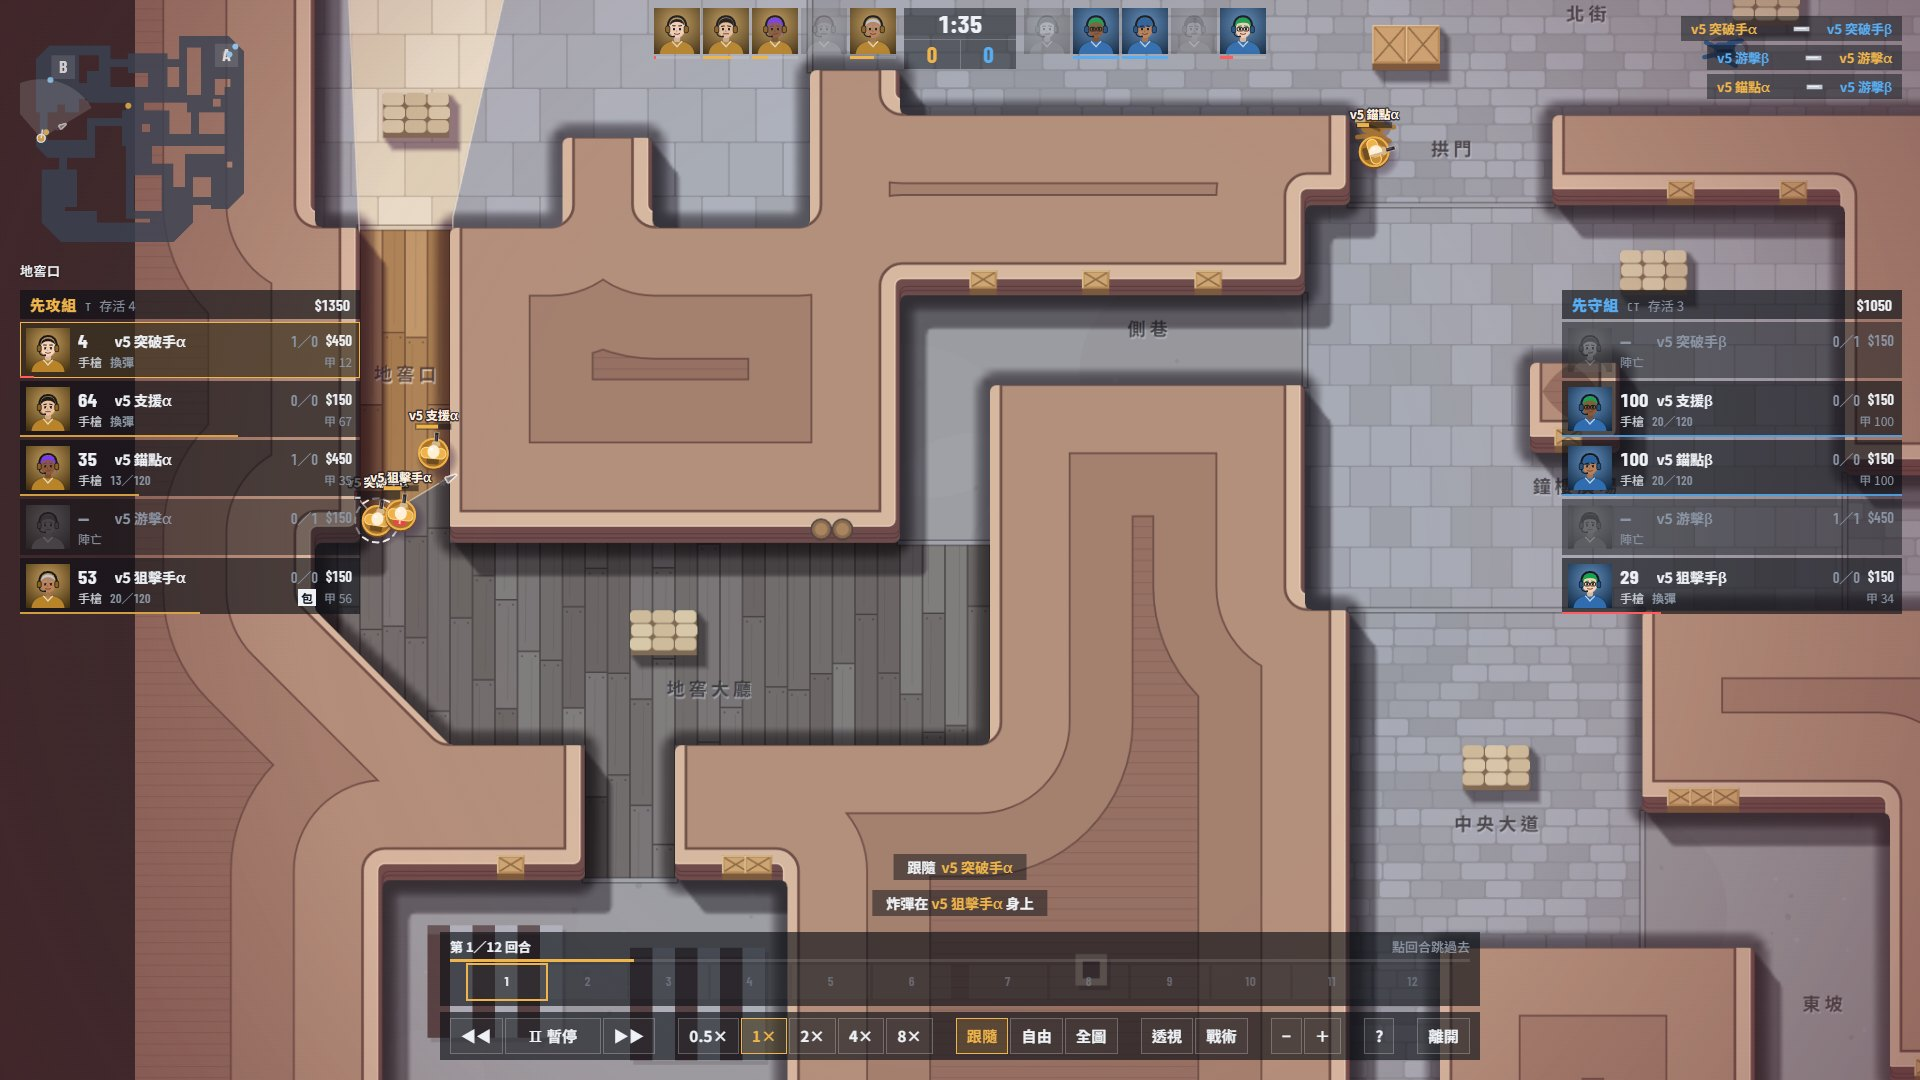
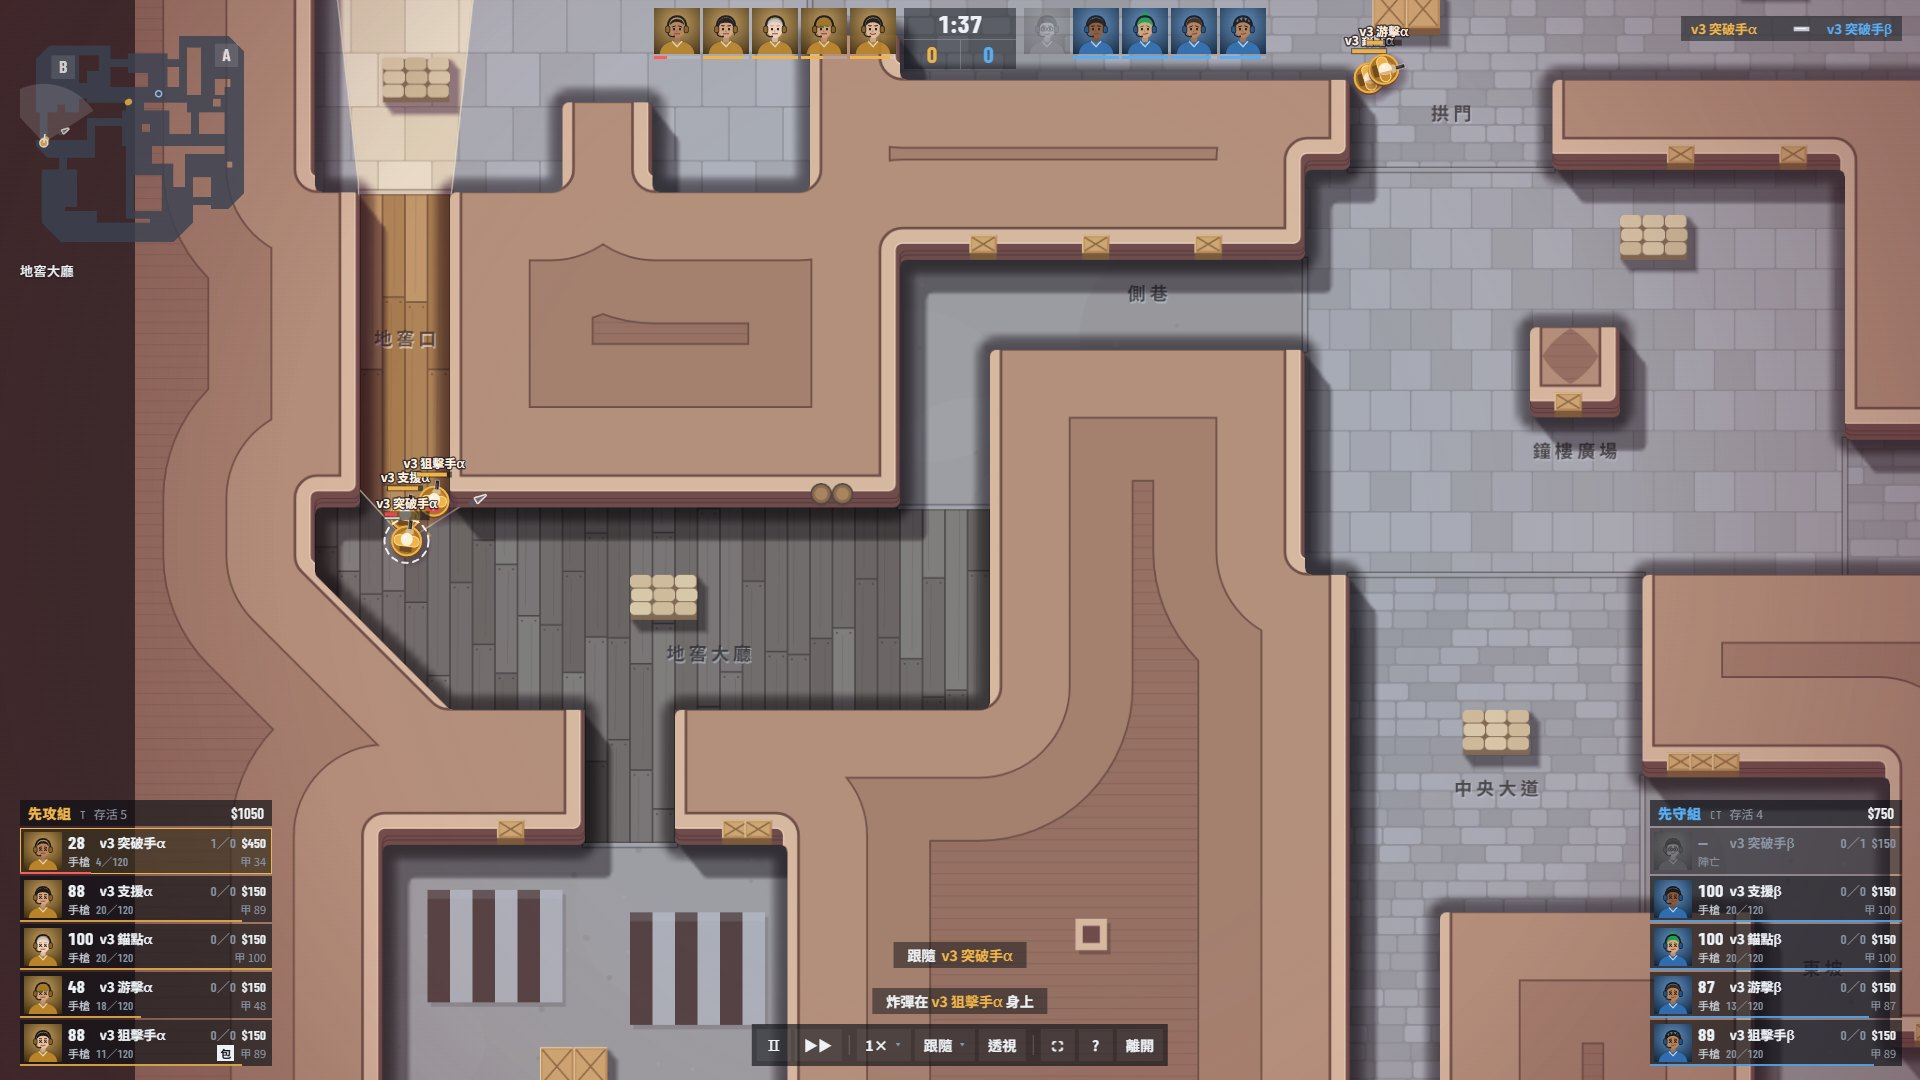
docs(shooter): UX 2.1 報告補第二輪觀戰面板與截圖

diff --git a/docs/2026-11-02_CS射擊_介面UX2.1_交付報告.md b/docs/2026-11-02_CS射擊_介面UX2.1_交付報告.md
@@ -2,7 +2,9 @@
 
 2026-11-02 · 分支 `claude/cs-ux-2-1-528f14`（未 push）
 
-一句話：對局 HUD 改成 CS 式的半透明版面，隊色改成 T 黃、CT 藍，商店閃爍修好。驗收表過，vitest 只剩既有的 S16。真人還沒試玩過這版，下包提示與低血量畫面也沒有實測，見第五節。
+一句話：對局 HUD 改成 CS 式的半透明版面，隊色改成 T 黃、CT 藍，商店閃爍修好，觀戰面板精簡。驗收表過，最後一輪 vitest 只剩既有的 S16。真人還沒試玩過這版，下包提示與低血量畫面也沒有實測，見第五節。
+
+> 第二輪（觀戰面板）的改動與量測在第七節。第一至第六節寫的是第一輪；觀戰畫面以第七節為準。
 
 ![對局](shots/ux-2-1/play-feed.jpg)
 
@@ -45,7 +47,7 @@
 | 觀戰跟隨 | 0.66～1.09 ms | **1.42 ms** |
 | 全圖 | 0.25～0.31 ms | **1.49 ms** |
 
-都在 4 ms 內。整幀比 UX 2.0 報告的 0.77 ms 高，但量測環境不同，不能直接比。頭像是靜態 DOM，只有換邊時重建，每幀只改 class 與血條寬度。內顯與無 GPU 沒量。
+都在 4 ms 內，第二輪重量見第七節。整幀比 UX 2.0 報告的 0.77 ms 高，但量測環境不同，不能直接比。頭像是靜態 DOM，只有換邊時重建，每幀只改 class 與血條寬度。內顯與無 GPU 沒量。
 
 ## 四、與使用者討論時的決定
 
@@ -65,10 +67,58 @@
 - **結算畫面**的比分是用掛勾擺的假資料，只用來看版面；左右順序不代表真實結果。
 - **頭像與經營層可能不同臉**：觀戰票只帶名字，經營層用選手 id 加名字當種子。之後接選手頭像時要把 id 帶進來。
 - **commit c514e64 單獨編不過 Node 那份 tsconfig**：測試引到 DOM 檔案，下一個 commit 拆出 `hudinfo.ts` 修好，分支終點正常。
-- **已知待辦都沒動**：跟隨阻尼、自由鏡頭鍵盤平移、全圖遠看細節、跳回合快照、商店賣出、1366×768 以下與手機、設定卡。
+- **已知待辦大多沒動**：跟隨阻尼、自由鏡頭鍵盤平移、跳回合快照、商店賣出、1366×768 以下與手機、設定卡。全圖遠看細節在第二輪補了標註與血量。
 
 ## 六、檔案
 
 - 新增 `src/web/shooter/scorebar.ts`（頂部計分、頭像、武器圖）、`hudinfo.ts`（純函式）、`test/shooter-hud.test.ts`。
 - 改 `hud.ts`、`render.ts`、`soldier.ts`、`bake.ts`（小地圖去背）、`buy.ts`、`shop.ts`、`spectate.ts`、`main.ts`、`web/shooter.css`、`web/shooter.html`（多載入 Barlow 700）。
-- 截圖在 `docs/shots/ux-2-1/`，17 張 3 MB。[`before-play`](shots/ux-2-1/before-play.jpg) 是改動前的同一個畫面。
+- 截圖在 `docs/shots/ux-2-1/`，20 張。[`before-play`](shots/ux-2-1/before-play.jpg) 是改動前的同一個畫面。
+
+## 七、第二輪：觀戰面板
+
+使用者看過第一輪後提出，小樣確認後實作，commit caefe1a。
+
+| 問題 | 原因 | 改動 | 改後 |
+| --- | --- | --- | --- |
+| 選手列表擋視線 | 放在左右中段，340 px | 移到左右下角，寬度 252 px，資料不變 | [跟隨](shots/ux-2-1/spectate-follow.jpg) |
+| 列出 1～N 回合沒必要 | 回合時間軸占一整排 | 拿掉；回合數看 Tab | 同上 |
+| 控制列太長 | 1040 px，每個選項一顆按鈕 | 416 px；速度、鏡頭收進向上展開的選單；拿掉上一回合與縮放按鈕（P 鍵、滾輪保留） | [選單](shots/ux-2-1/spectate-menu-speed.jpg) |
+| 全螢幕是 F 很怪 | 自訂熱鍵 | 改 F11，控制列加 ⛶ | 同上 |
+| Esc 不能退全螢幕，反而暫停 | 為了防 Ctrl＋W 關分頁鎖了鍵盤，Esc 要長按 | 觀戰不鎖鍵盤，Esc 不再暫停；對局維持鎖定 | — |
+| 自由鏡頭直接變透視 | 當初把鏡頭不跟人等同看全部 | 自由鏡頭維持所看選手的視野，要看全部自己開透視 | [自由](shots/ux-2-1/spectate-free.jpg)、[開透視](shots/ux-2-1/spectate-free-xray.jpg) |
+| 看不懂戰術 | 距離環、引線標籤、區域名綁成一顆按鈕 | 拿掉按鈕與距離環；全圖自動顯示名字、血量、區域名 | [全圖](shots/ux-2-1/spectate-map.jpg) |
+
+### 額外修掉的
+
+實作時發現，觀戰關透視時所有人仍然畫出來，迷霧只壓暗地面；小地圖、屍體、自由鏡頭的子彈也一樣。現在沒開透視就只畫所看選手看得到的東西。**試玩觀戰預設關透視，所以跟隨畫面會比以前看到的人少**；經營層觀戰預設開，不受影響。
+
+全圖的邊距一起調小（左右 380 → 280、上下 128 → 78），地圖比之前大。
+
+### 驗收
+
+| 項目 | 結果 | 數據 |
+| --- | --- | --- |
+| 控制列 | 過 | 寬 416 px；真實滑鼠開速度選單、點畫面收起；選單切 2×、自由都生效 |
+| 自由鏡頭 | 過 | 切自由後透視維持關，X 開關都正常 |
+| 全圖 | 過 | 一律看全部，透視按鈕停用 |
+| F11 | 過 | 觀戰呼叫全螢幕且未鎖鍵盤；對局有鎖；⛶ 按鈕同一路；F 不再有反應 |
+| Esc | 部分 | 觀戰按下不暫停，對局第二下開暫停選單（第一下關商店）。**「Esc 真的離開全螢幕」沒實測**：無頭瀏覽器進不了全螢幕，這幾項是攔截函式驗的 |
+| 1920×1080、1366×768 | 過 | 跟隨、全圖、按鍵表都看過，無重疊 |
+| 效能 | 過 | 跟隨：畫面 0.61～0.69 ms、整幀 **0.74 ms**；全圖：畫面 0.46～0.51 ms、整幀 **0.66 ms** |
+| typecheck、eslint、build:web | 過 | 無錯誤 |
+| vitest | 過 | 最後一輪 527 過、1 略過、1 失敗（既有 S16）。前一輪 5 失敗：S16 加 `conquest`、`legion`、`sandbox`、`shooter-players`，都是時限類，那 4 個檔案單跑全過，重跑完整也過 |
+
+### 使用者的決定
+
+| 問題 | 決定 |
+| --- | --- |
+| 戰術按鈕 | 拿掉，全圖自動標註，距離環不留 |
+| 上一回合按鈕 | 拿掉，P 鍵保留 |
+| 對局的 Esc | 維持暫停選單與鍵盤鎖定，否則 Ctrl＋W 蹲走會關分頁 |
+
+### 第二輪沒做到的
+
+- `spectate-swap.jpg` 是第一輪拍的，控制列還是舊版，只用來看換邊隊色。
+- 觀戰頭上血條沒有另外調整；擠在一起時名字會重疊。
+- 列表窄了之後，經營層觀戰的角色標籤不顯示，只在畫面下方的跟隨提示看得到。
